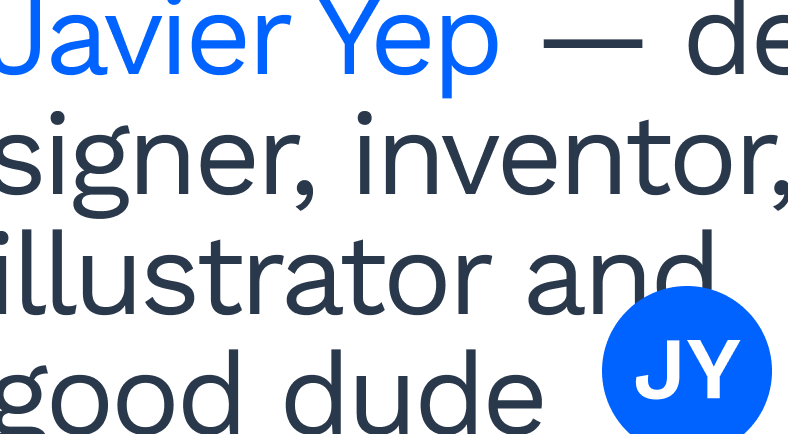
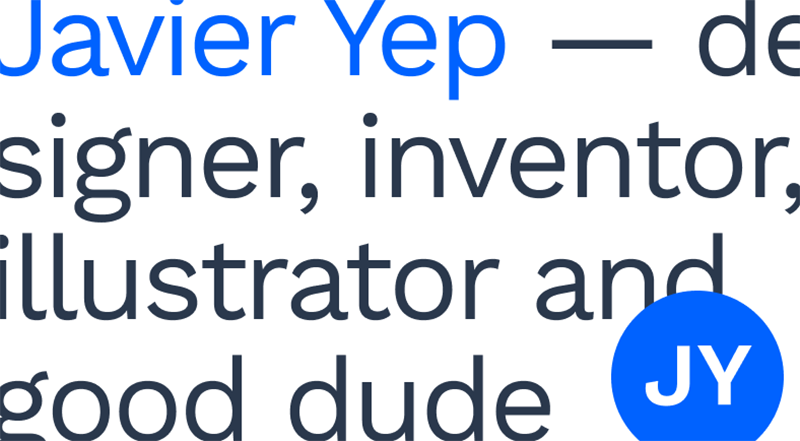
compressed cover images

diff --git a/cyclical.html b/cyclical.html
@@ -20,14 +20,14 @@
     <meta property="og:url" content="http://javier-yep.com/">
     <meta property="og:title" content="Javier Yep — Cyclical">
     <meta property="og:description" content="Inventing and patenting a product. I invented a perpetual calendar and patented it (slowly by surely) without a lawyer. Soon on Kickstarter!">
-    <meta property="og:image" content="https://javieryep.github.io/portfolio/images/cover_cyclical.png">
+    <meta property="og:image" content="https://javieryep.github.io/portfolio/images/cover_cyclical.jpg">
 
     <!-- Twitter -->
     <meta property="twitter:card" content="summary_large_image">
     <meta property="twitter:url" content="http://javier-yep.com/">
     <meta property="twitter:title" content="Javier Yep — Cyclical">
     <meta property="twitter:description" content="Inventing and patenting a product. I invented a perpetual calendar and patented it (slowly by surely) without a lawyer. Soon on Kickstarter!">
-    <meta property="twitter:image" content="https://javieryep.github.io/portfolio/images/cover_cyclical.png">
+    <meta property="twitter:image" content="https://javieryep.github.io/portfolio/images/cover_cyclical.jpg">
 
   </head>
   <body>
@@ -64,7 +64,7 @@
 
 <!-- Hero Image -->
 <div>
-  <img class="hero-image spacing-xl" src="images/cover_cyclical.png">
+  <img class="hero-image spacing-xl" src="images/cover_cyclical.jpg">
 </div>
 
 <div class="row" id="content">
@@ -96,19 +96,19 @@
           <p class="body-large">“Can’t you hide the things we don’t need? It’s hard to read"—she said.</p>
         </div>
       </div>
-      <p>She was spot on. I had thought something similar but I was enamoured with my initial idea and I didn’t do anything about it. Without her comment I wouldn’t have come up with my invention at all.</p>
+      <p>I had thought something similar but I was enamoured with my initial idea and I didn’t do anything about it. Without her comment I wouldn’t have come up with my invention at all.</p>
     </div>
   </div>
 
     <div class="row columns spacing-xl">
       <div class="medium-8 medium-push-2 columns">
         <h2 class="h2 spacing-s">Scrappy prototyping</h2>
-        <p class="spacing-m">This time, I started looking for something more practical, not only good-looking. I printed my design on paper and started thinking outside the screen. How can I hide the unnecessary information? I folded the days of the week on the left and right forming a loop, but wasn’t as easy with the months. And then it hit me. I could use the same loop concept for the months, but with a different piece of paper.</p>
+        <p class="spacing-m">This time, I started looking for something more practical, not only good-looking. I printed my design on paper and started thinking outside the screen. How can I hide the unnecessary information? I folded the days of the week on the left and right forming a loop, but wasn’t as easy with the months. Then I used the same loop concept for the months, but with a different piece of paper.</p>
         <figure class="row columns spacing-m">
           <img class="spacing-s" src="images/cyclical/paper_calendars.jpg">
           <figcaption>Paper prototypes</figcaption>
         </figure>
-        <p class="spacing-m">I came up with multiple versions of that idea on paper, and they all looked promising. It seemed like an obvious solution, it just shifts the grid structure of the days of the month horizontally. I created small, medium and large versions of the prototype and thought of selling the template online for a couple of bucks. Kate even helped me create a tutorial video on how to make the calendar.</p>
+        <p class="spacing-m">I experimented with multiple versions of that idea on paper, and they looked promising.I just needed to shift the grid structure of the days of the month horizontally. I made a tutorial video on how to construct the calendar based on the paper template.</p>
         <div class="video-wrap">
          <iframe class="video-iframe" src="https://www.youtube-nocookie.com/embed/7w4FYWG1ylI?rel=0&modestbranding=1&showinfo=0&autohide=1&color=white" frameborder="0" allow="accelerometer; encrypted-media; gyroscope; picture-in-picture" allowfullscreen></iframe>
         </div>
@@ -124,7 +124,7 @@
             <p class="body-large">What's the point of a resuable calendar if you can’t really reuse it for too long?</p>
           </div>
         </div>
-        <p class="spacing-m">I decided to take the project futher and prototype the idea in wood. I laser engraved a new design in plywood and cut the pieces individually with an electric saw. Then, I drilled holes for the elastic bands to connect the pieces, but the they didn’t align. Next time, I tried glueing 3 thinner layers of wood for every piece, and leaving gaps in the middle, which became perfectly aligned holes.</p>
+        <p class="spacing-m">I decided to take the project futher and prototype the idea in wood. I used power tools like a electric saw and vertical drill to create the first prototype, but they didn't provide the precision I needed. For the next prototypes, I used a laser cutter, which burned the sides of the plywood, but made the pieces much more detailed and that's what I needed. Finally, I created 3 different versions using different techniques.</p>
 
         <figure class="row spacing-m">
           <div class="row columns">
@@ -152,7 +152,7 @@
         </figure>
 
 
-        <p class="spacing-m">This version worked much better, but I still had the problem of displaying unnecessary numbers in some months (29, 30, 31). I realized I could make those specific numbers rotate on the vertical axis to hide the numbers, which were very fiddly and intricate to make, but they worked!</p>
+        <p class="spacing-m">One big UX problem remained, and that was displaying unnecessary numbers during specific months (dates 29, 30, 31). I tried making those specific numbers rotate on the vertical axis to hide the numbers. This was particularly fiddly and intricate to make; but ultimately it worked!</p>
 
         <figure class="row spacing-m">
           <div class="row columns">
@@ -172,7 +172,7 @@
     <div class="row columns spacing-s">
       <div class="medium-8 medium-push-2 columns">
         <h2 class="h2 spacing-s">It works!</h2>
-        <p>When I finished making the calendar I realized I had made something pretty original and useful. Here are some of the main benefits of the calendar:</p>
+        <p>When I finished making the calendar I realized I had made something pretty original and useful.</p>
         <ul class="bullets">
         <li>First of all, it’s reusable. That means you don’t need to waste more paper in paper calendars.</li>
         <li>It can be bought at anytime of the year, not only during the beginning of the year as regular calendars.</li>
@@ -204,7 +204,7 @@
     <div class="row columns spacing-m">
       <div class="medium-8 medium-push-2 columns">
           <h2 class="h2 spacing-s">Can I patent this?</h2>
-          <p>That’s what I asked myself when I realized the uniqueness of my creation. “But I don’t know anything about patents, and I’m sure I wouldn’t be able to afford it at this time.” Before giving up, I started reading a bunch of utility patents. After that I thought to myself</p>
+          <p>That’s what I asked myself when I realized the uniqueness of my creation. I didn't know anything about patents, and I wast sure I wouldn't be able to afford a lawyer at that point. Before giving up though, I started reading a many patents, and then I thought to myself</p>
           <div class="pullquote">
           <div class="quote">
             <p class="body-large">“This doesn’t seem that difficult after all, I think I can do it myself.”</p>

diff --git a/visuals.html b/visuals.html
@@ -20,14 +20,14 @@
     <meta property="og:url" content="http://javier-yep.com/">
     <meta property="og:title" content="Javier Yep — Visuals">
     <meta property="og:description" content="A selected collection of old, recent, digital, physical and thoughtful visuals, or just eye candy. I hope you enjoy them!">
-    <meta property="og:image" content="https://javieryep.github.io/portfolio/images/cover_visuals.png">
+    <meta property="og:image" content="https://javieryep.github.io/portfolio/images/cover_visuals.jpg">
 
     <!-- Twitter -->
     <meta property="twitter:card" content="summary_large_image">
     <meta property="twitter:url" content="http://javier-yep.com/">
     <meta property="twitter:title" content="Javier Yep — Visuals">
     <meta property="twitter:description" content="A selected collection of old, recent, digital, physical and thoughtful visuals, or just eye candy. I hope you enjoy them!">
-    <meta property="twitter:image" content="https://javieryep.github.io/portfolio/images/cover_visuals.png">
+    <meta property="twitter:image" content="https://javieryep.github.io/portfolio/images/cover_visuals.jpg">
 
   </head>
   <body>
@@ -64,7 +64,7 @@
 
 <!-- Hero Image -->
 <div>
-  <img class="hero-image spacing-xl" src="images/cover_visuals.png">
+  <img class="hero-image spacing-xl" src="images/cover_visuals.jpg">
 </div>
 
 <div class="row" id="content">
@@ -227,7 +227,7 @@
   <div id="logos" class="row spacing-s">
     <div class="medium-12 columns">
         <h2 class="h3">Logos</h2>
-        <p>The gateway to design for me was logotypes and brands. I became a freelance brand designer and worked with clients mainly from Peru, Costa Rica and Brasil.</p>
+        <p>My gateway to design was logotypes and brands. I became a freelance brand designer and worked with clients mainly from Peru, Costa Rica and Brasil.</p>
     </div>
   </div>
     <div class="row">

diff --git a/index.html b/index.html
@@ -83,7 +83,7 @@
   
   <section id="dabra" class="row spacing-xl">
     <div class="image-hover-wrapper medium-7 columns spacing-s">
-      <a href="dabra.html"><img src="images/cover_dabra.png" alt="Dabra by SAP">
+      <a href="dabra.html"><img src="images/cover_dabra.jpg" alt="Dabra by SAP">
         <div class="image-hover-wrapper-reveal">
         <p class="body-large">View project</p>
         </div>
@@ -100,7 +100,7 @@
 
   <section id="sap" class="row spacing-xl">
     <div class="image-hover-wrapper medium-7 columns spacing-s">
-      <a href="sapcx.html"><img src="images/cover_sapcx.png" alt="SAP CX Live">
+      <a href="sapcx.html"><img src="images/cover_sapcx.jpg" alt="SAP CX Live">
         <div class="image-hover-wrapper-reveal">
         <p class="body-large">View project</p>
         </div>
@@ -117,7 +117,7 @@
 
   <section id="cyclical" class="row spacing-xl">
     <div class="image-hover-wrapper medium-7 columns spacing-s">
-      <a href="cyclical.html"><img src="images/cover_cyclical.png" alt="Cyclical">
+      <a href="cyclical.html"><img src="images/cover_cyclical.jpg" alt="Cyclical">
         <div class="image-hover-wrapper-reveal">
         <p class="body-large">View project</p>
         </div>
@@ -134,7 +134,7 @@
 
   <section id="cyclical" class="row spacing-xl">
     <div class="image-hover-wrapper medium-7 columns spacing-s">
-      <a href="visuals.html"><img src="images/cover_visuals.png" alt="Visuals">
+      <a href="visuals.html"><img src="images/cover_visuals.jpg" alt="Visuals">
         <div class="image-hover-wrapper-reveal">
         <p class="body-large">View project</p>
         </div>

diff --git a/dabra.html b/dabra.html
@@ -20,14 +20,14 @@
     <meta property="og:url" content="http://javier-yep.com/">
     <meta property="og:title" content="Javier Yep — Dabra.ai">
     <meta property="og:description" content="Upgrading a startup MVP. Dabra is a web application to improve workplace 1:1 meetings. As the team's sole designer, I shaped Dabra's brand and user experience.">
-    <meta property="og:image" content="https://javieryep.github.io/portfolio/images/cover_dabra.png">
+    <meta property="og:image" content="https://javieryep.github.io/portfolio/images/cover_dabra.jpg">
 
     <!-- Twitter -->
     <meta property="twitter:card" content="summary_large_image">
     <meta property="twitter:url" content="http://javier-yep.com/">
     <meta property="twitter:title" content="Javier Yep — Dabra.ai">
     <meta property="twitter:description" content="Upgrading a startup MVP. Dabra is a web application to improve workplace 1:1 meetings. As the team's sole designer, I shaped Dabra's brand and user experience.">
-    <meta property="twitter:image" content="https://javieryep.github.io/portfolio/images/cover_dabra.png">
+    <meta property="twitter:image" content="https://javieryep.github.io/portfolio/images/cover_dabra.jpg">
 
   </head>
   <body>
@@ -64,7 +64,7 @@
 
 <!-- Hero Image -->
 <div>
-  <img class="hero-image spacing-xl" src="images/cover_dabra.png" alt="Dabra cover image">
+  <img class="hero-image spacing-xl" src="images/cover_dabra.jpg" alt="Dabra cover image">
 </div>
 
 <div class="row" id="content">

diff --git a/sapcx.html b/sapcx.html
@@ -20,14 +20,14 @@
     <meta property="og:url" content="http://javier-yep.com/">
     <meta property="og:title" content="Javier Yep — SAP CX Live">
     <meta property="og:description" content="Crafting B2B2C prototypes. During this 3-month fellowship I helped optimize startup prototypes for SAP's largest annual customer conference in Orlando, FL.">
-    <meta property="og:image" content="https://javieryep.github.io/portfolio/images/cover_sapcx.png">
+    <meta property="og:image" content="https://javieryep.github.io/portfolio/images/cover_sapcx.jpg">
 
     <!-- Twitter -->
     <meta property="twitter:card" content="summary_large_image">
     <meta property="twitter:url" content="http://javier-yep.com/">
     <meta property="twitter:title" content="Javier Yep — SAP CX Live">
     <meta property="twitter:description" content="Crafting B2B2C prototypes. During this 3-month fellowship I helped optimize startup prototypes for SAP's largest annual customer conference in Orlando, FL.">
-    <meta property="twitter:image" content="https://javieryep.github.io/portfolio/images/cover_sapcx.png">
+    <meta property="twitter:image" content="https://javieryep.github.io/portfolio/images/cover_sapcx.jpg">
 
   </head>
   <body>
@@ -64,7 +64,7 @@
 
 <!-- Hero Image -->
 <div>
-  <img class="hero-image spacing-xl" src="images/cover_sapcx.png">
+  <img class="hero-image spacing-xl" src="images/cover_sapcx.jpg">
 </div>
 
 <div class="row" id="content">

diff --git a/css/app.css b/css/app.css
@@ -71,8 +71,8 @@ li {
 
 .h1 {
   font-family: 'Work Sans', sans-serif;
-  font-size: 3rem;
-  line-height: 3rem;
+  font-size: 3.25rem;
+  line-height: 3.25rem;
   letter-spacing: -0.15rem;
   margin: 0.3em 0;
 }
